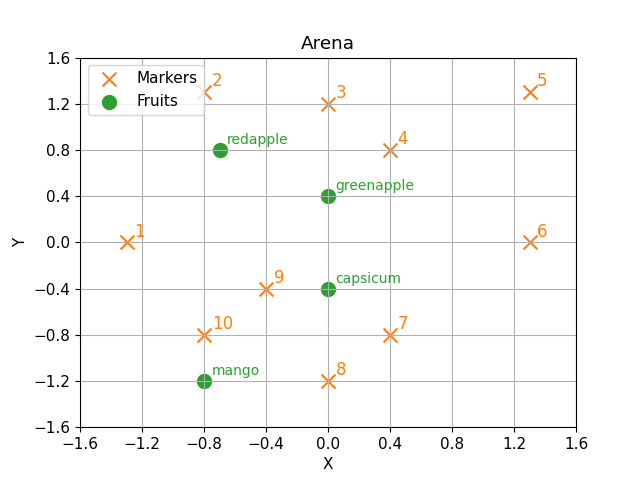
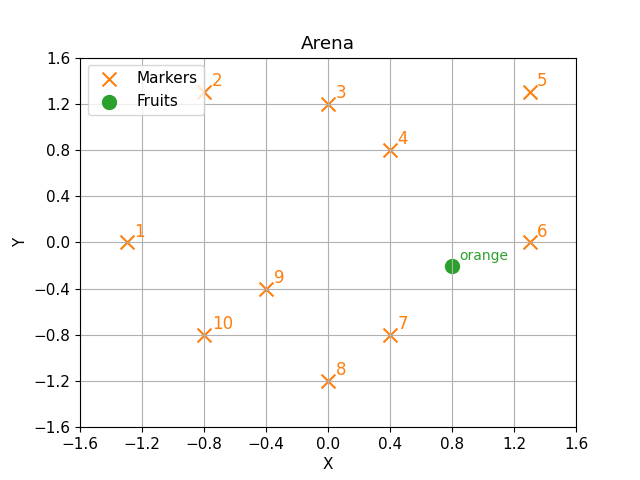
testing orange height, turning offsets

diff --git a/finaldemo/TargetPoseEst.py b/finaldemo/TargetPoseEst.py
@@ -68,7 +68,7 @@ def estimate_pose(base_dir, camera_matrix, completed_img_dict):
     camera_offset = 0.067 # 6.7cm from robot center
     redapple_dimensions = [0.074, 0.074, 0.0965]
     greenapple_dimensions = [0.081, 0.081, 0.0760]
-    orange_dimensions = [0.075, 0.075, 0.0797]
+    orange_dimensions = [0.075, 0.075, 0.0760]
     mango_dimensions = [0.113, 0.067, 0.0590]
     # capsicum_dimensions = [0.073, 0.073, 0.0957]
     capsicum_dimensions = [0.073, 0.073, 0.0980] #we use 1.2m as benchmark

diff --git a/finaldemo/auto_fruit_search_calib.py b/finaldemo/auto_fruit_search_calib.py
@@ -107,7 +107,7 @@ def rotate_robot_angle(ppi, turn_angle=0):
     turn_angle = turn_angle*np.pi/180
 
     
-    turn_time = (abs(turn_angle)*baseline*1.12)/(2.0*scale*wheel_vel) + turn_offset
+    turn_time = (abs(turn_angle)*baseline*1.11)/(2.0*scale*wheel_vel) + turn_offset
     print(turn_time)
     
     for _ in range(turn_steps):
